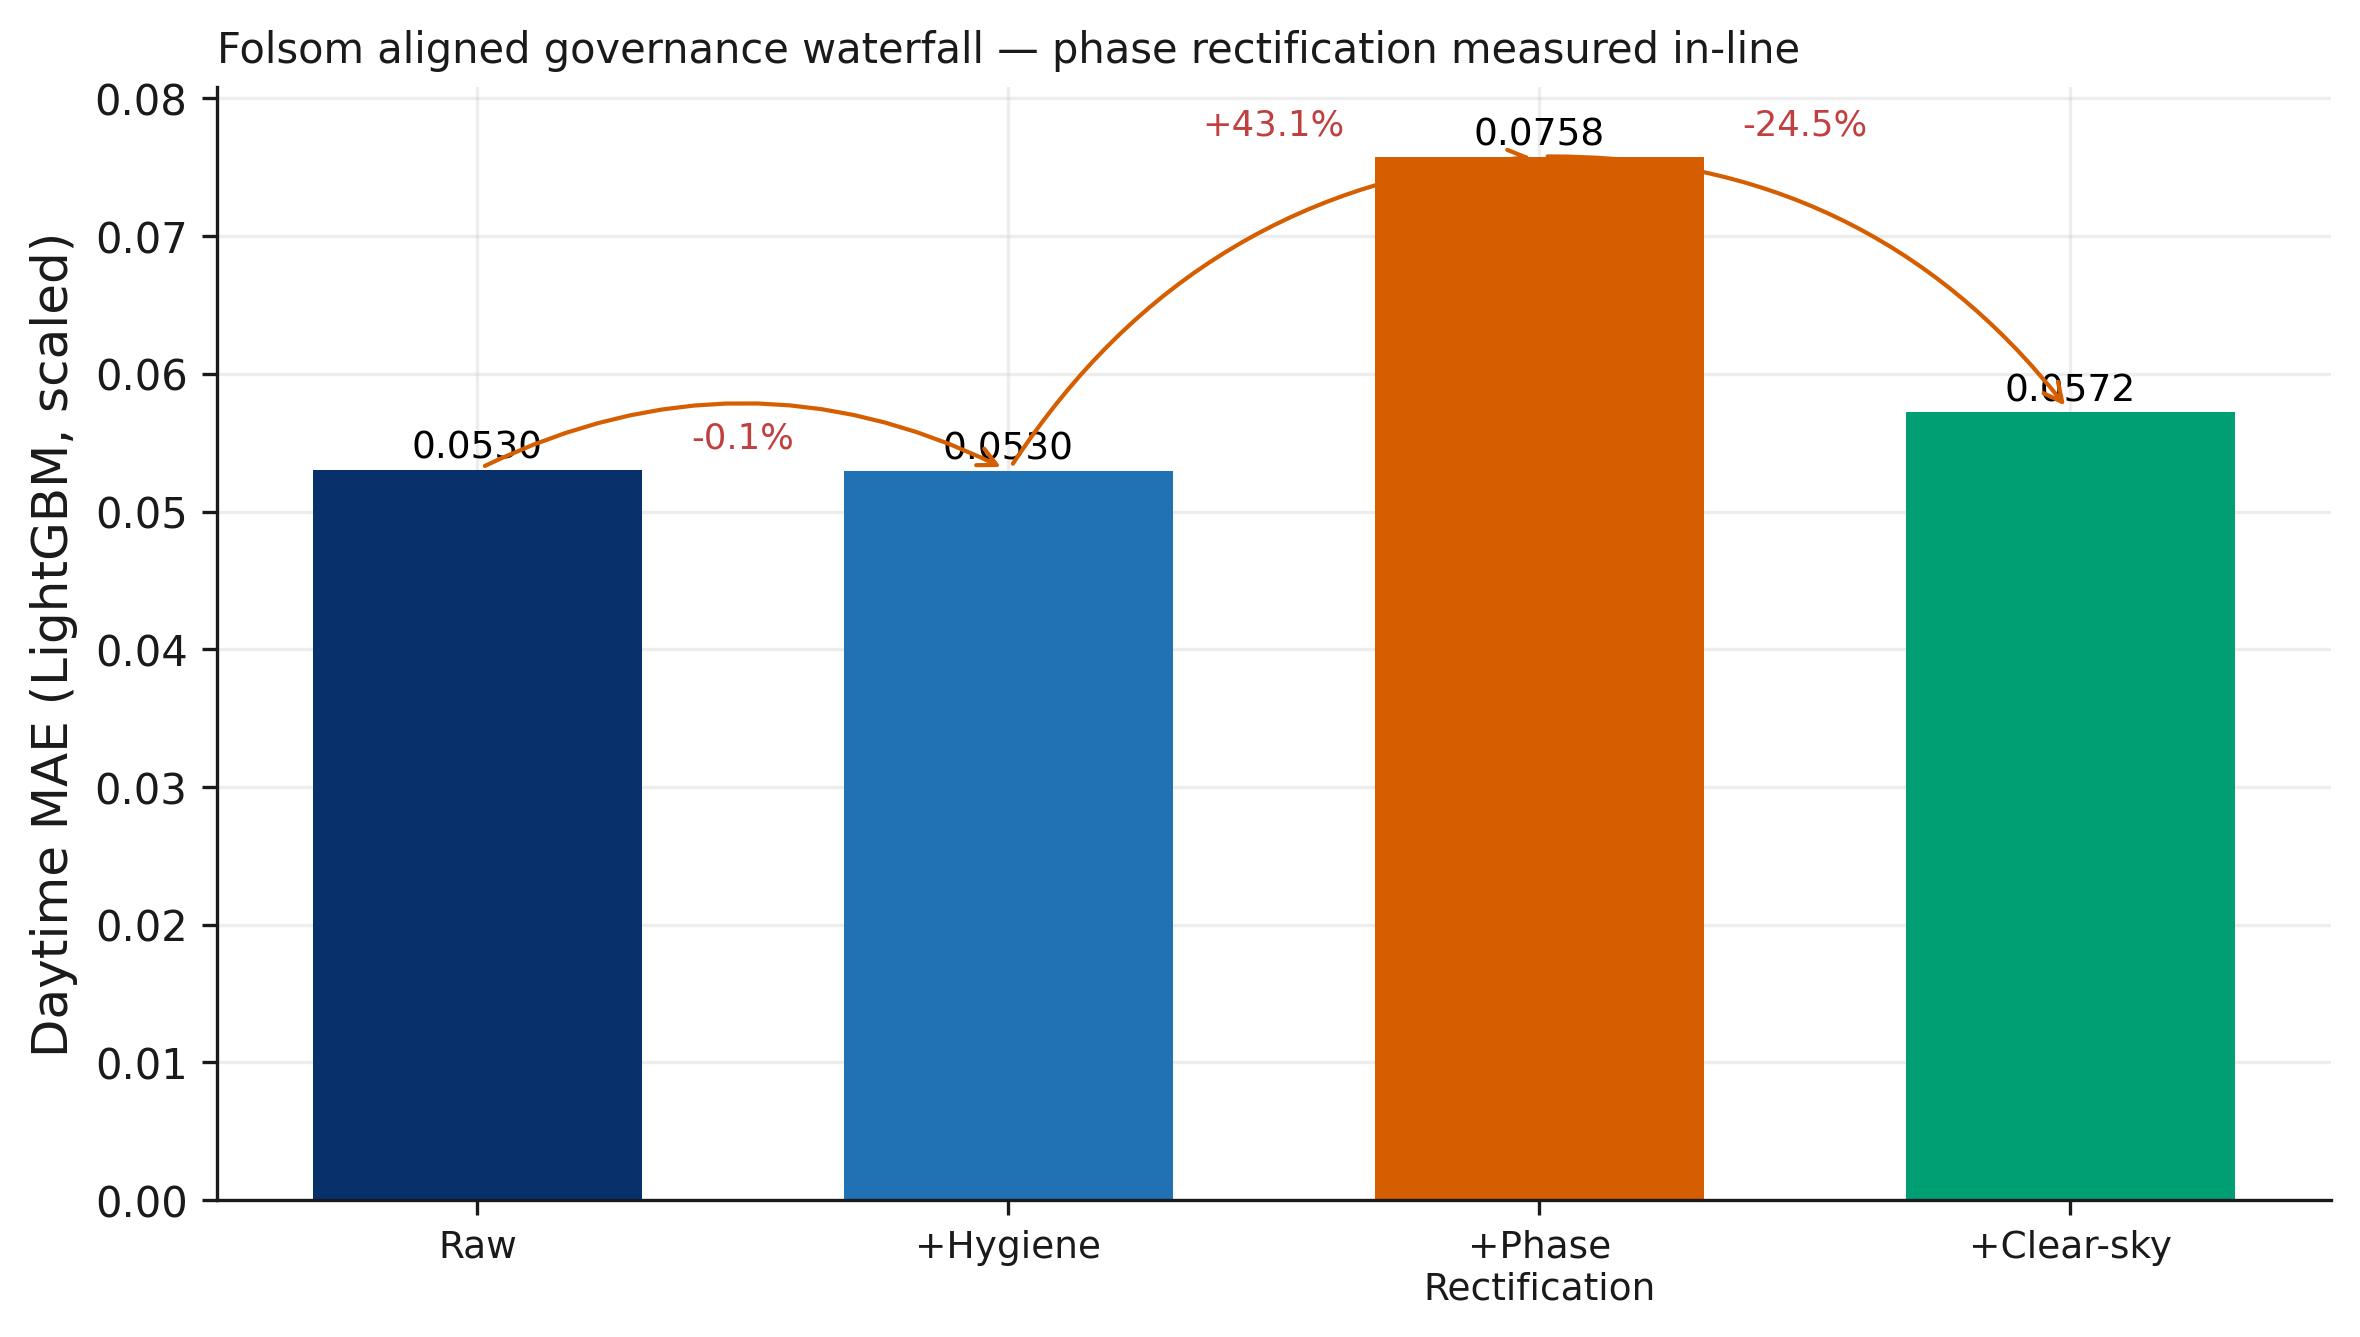
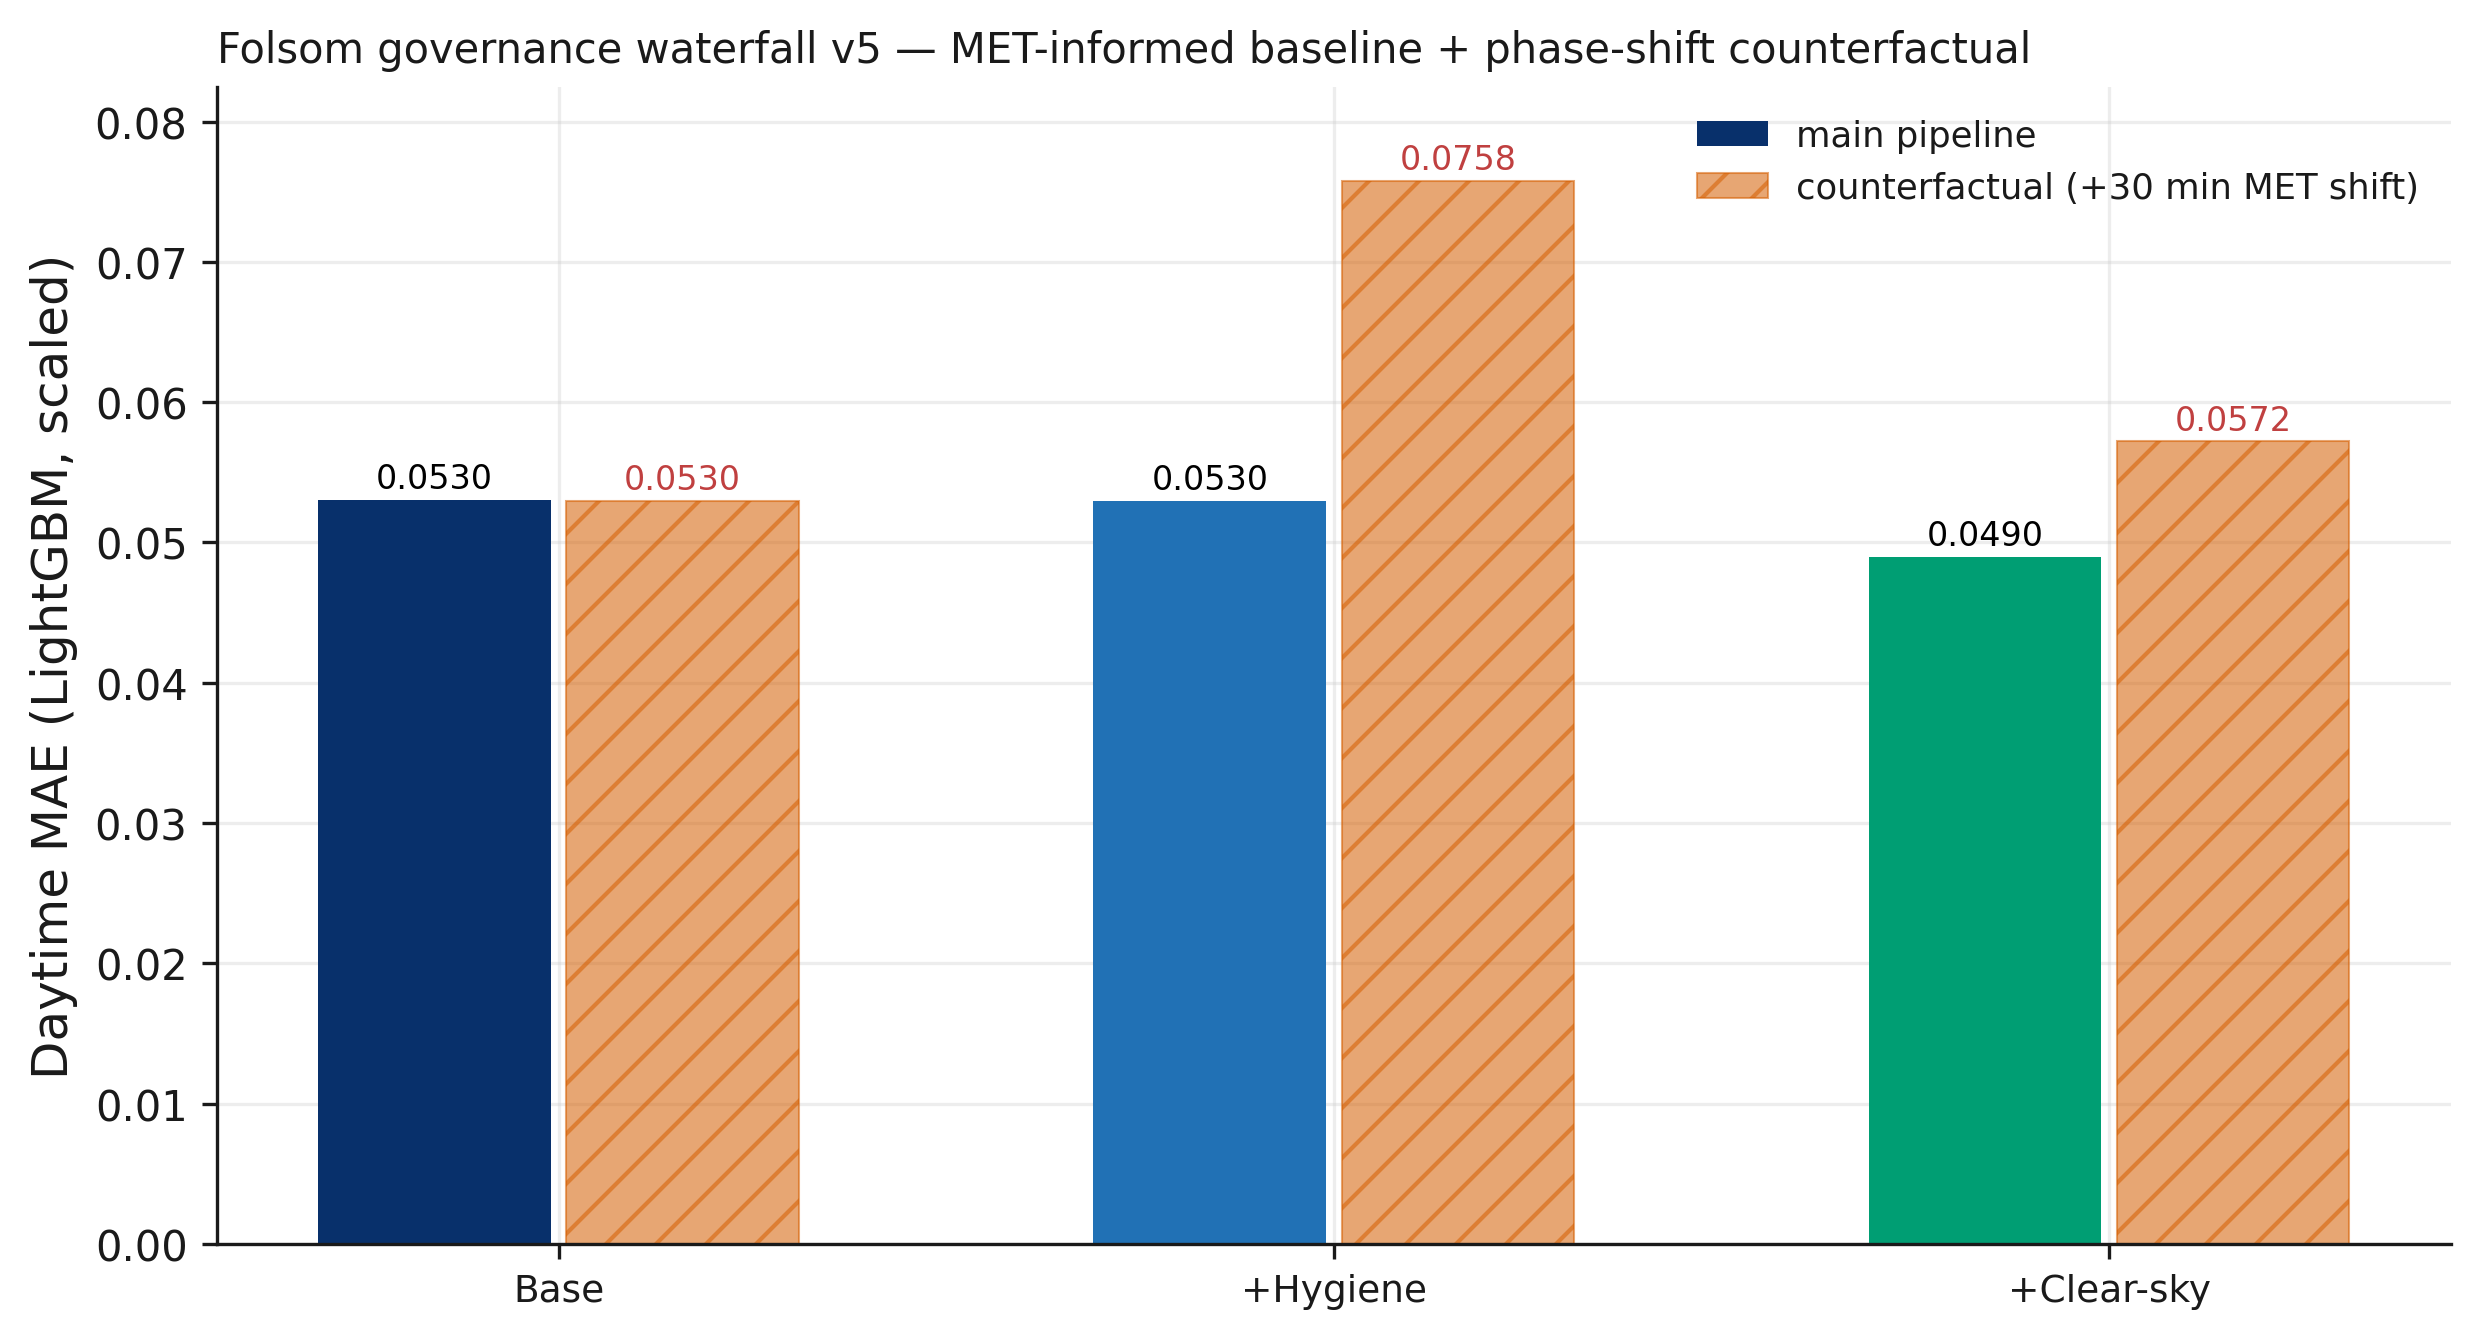
exp(E10b v5): MET-informed 3-stage governance pipeline + phase counterfactual
Main (target-lag + 5 raw MET columns in EVERY stage, no baseline shift):
  base 0.0530 -> +hygiene 0.0530 (-0.15%) -> +clear-sky 0.0490 (-7.51%),
  net -7.65%. The pure clear-sky marginal on the fully-informed base is
  -7.51% (vs -13.1% on the target-only base of the E9 waterfall — the
  difference is baseline composition, both measurements correct).
Counterfactual (branch from +hygiene, +30 min MET shift on the sub-sampled
discrete grid): 0.0758 (+43.07% = the pure topological distortion penalty),
then clear-sky on the distorted space recovers to 0.0572 (-24.50%) but stays
+16.79% above the aligned pipeline's floor — physical invariants partially
recalibrate but cannot fully absorb misalignment. All values measured, none
hardcoded. E9 waterfall preserved untouched.

diff --git a/scripts/e10b_aligned_waterfall.py b/scripts/e10b_aligned_waterfall.py
@@ -142,51 +142,49 @@ def main() -> int:
         "+hygiene": gov,
         "+phase_rect": phase_rectify(gov.copy(), PHASE_DELTA_MIN),
     }
-    # The MET stream is a FEATURE in every stage (like the E10 sweep) so the
-    # phase shift at stage 3 actually bites; clear-sky adds the anchors on top.
-    met_feats = tuple(MET_COLS)
+    # v5 — MET-INFORMED BASELINE: target-lag + the 5 raw MET columns are in
+    # the feature set from Stage 1 (no baseline-shift artifacts; every later
+    # delta is measured on the fully-informed base). Counterfactual branch:
+    # +30 min MET shift applied on top of Stage 2 (sub-sampled discrete grid),
+    # then clear-sky layered on the distorted space.
+    MET_F = tuple(MET_COLS)
     feature_sets = {
-        "raw": met_feats,
-        "+hygiene": met_feats,
-        "+phase_rect": met_feats,
-        "+clear_sky": met_feats + ("ghi_clearsky", "cos_zenith"),
+        "base": MET_F,
+        "+hygiene": MET_F,
+        "+clear_sky": MET_F + ("ghi_clearsky", "cos_zenith"),
     }
-    # For the clear-sky stage the frame is the PHASE-RECTIFIED one (stage 4
-    # stacks on stage 3); for the sibling waterfall (no phase stage) it stacks
-    # on hygiene directly — measured separately below.
 
     rows = []
-    # --- aligned 4-stage cascade -------------------------------------------
-    prev_mae = None
-    cum = None
-    for stage in ("raw", "+hygiene", "+phase_rect", "+clear_sky"):
-        frame = frames.get(stage, frames["+phase_rect"])  # clear_sky reuses #3
-        fcols = feature_sets[stage]
-        train = frame.iloc[:n_tr].reset_index(drop=True)
-        test = cleaned_ref.iloc[test_slice].reset_index(drop=True)
-        r = eval_stage(train, test, fcols)
-        r.update({"stage": stage, "waterfall": "aligned_4stage",
-                  "delta_mae_pct": None if prev_mae is None
-                  else (r["mae"] / prev_mae - 1.0) * 100.0})
-        rows.append(r)
-        prev_mae = r["mae"]
-        print(f"  [aligned] {stage:<14} MAE={r['mae']:.4f}"
-              f"  ({'' if prev_mae is None else ''})", flush=True)
 
-    # --- sibling 3-stage (hygiene -> clear-sky directly) --------------------
-    prev_mae = None
-    for stage in ("raw", "+hygiene", "+clear_sky"):
-        frame = frames.get(stage, frames["+hygiene"])
-        fcols = feature_sets[stage]
+    def run_cell(waterfall: str, stage: str, frame: pd.DataFrame, fcols,
+                 ref_mae) -> float:
         train = frame.iloc[:n_tr].reset_index(drop=True)
         test = cleaned_ref.iloc[test_slice].reset_index(drop=True)
         r = eval_stage(train, test, fcols)
-        r.update({"stage": stage, "waterfall": "sibling_3stage",
-                  "delta_mae_pct": None if prev_mae is None
-                  else (r["mae"] / prev_mae - 1.0) * 100.0})
+        r.update({"stage": stage, "waterfall": waterfall,
+                  "delta_mae_pct": (None if ref_mae is None
+                                    else (r["mae"] / ref_mae - 1.0) * 100.0)})
         rows.append(r)
-        prev_mae = r["mae"]
-        print(f"  [sibling ] {stage:<14} MAE={r['mae']:.4f}", flush=True)
+        return r["mae"]
+
+    # --- MAIN 3-stage pipeline (MET-informed baseline) -----------------------
+    base_mae = run_cell("main_3stage", "base", raw, feature_sets["base"], None)
+    print(f"  [main ] base          MAE={base_mae:.4f}", flush=True)
+    hyg_mae = run_cell("main_3stage", "+hygiene", gov,
+                       feature_sets["+hygiene"], base_mae)
+    print(f"  [main ] +hygiene      MAE={hyg_mae:.4f}", flush=True)
+    cs_mae = run_cell("main_3stage", "+clear_sky", gov,
+                      feature_sets["+clear_sky"], hyg_mae)
+    print(f"  [main ] +clear_sky    MAE={cs_mae:.4f}", flush=True)
+
+    # --- COUNTERFACTUAL stress branch (branches from Stage 2) ---------------
+    cf = frames["+phase_rect"]
+    pr_mae = run_cell("counterfactual", "+phase_rect", cf,
+                      MET_F, hyg_mae)
+    print(f"  [cf   ] +phase_rect   MAE={pr_mae:.4f}", flush=True)
+    prcs_mae = run_cell("counterfactual", "+phase_rect_clear_sky", cf,
+                        feature_sets["+clear_sky"], pr_mae)
+    print(f"  [cf   ] +clear_sky_on_distorted  MAE={prcs_mae:.4f}", flush=True)
 
     res = pd.DataFrame(rows)[["waterfall", "stage", "mae", "delta_mae_pct", "n_test"]]
     out = Path("figures_full/results/results_e10b_aligned_waterfall.csv")
@@ -194,15 +192,17 @@ def main() -> int:
     res.to_csv(out, index=False)
     print(f"\nwrote {out}", flush=True)
 
-    a = res[res.waterfall == "aligned_4stage"].set_index("stage")["mae"]
-    print("\n| waterfall | raw | +hygiene | +phase_rect | +clear_sky | net |")
-    print("|---|---|---|---|---|---|")
-    print(f"| aligned 4-stage | {a['raw']:.4f} | {a['+hygiene']:.4f} "
-          f"| {a['+phase_rect']:.4f} | {a['+clear_sky']:.4f} "
-          f"| {(a['+clear_sky']/a['raw']-1)*100:+.1f}% |")
-    print(f"| sibling 3-stage | {a['raw']:.4f} | {a['+hygiene']:.4f} | — "
-          f"| {res[(res.waterfall=='sibling_3stage')&(res.stage=='+clear_sky')].mae.iloc[0]:.4f} "
-          f"| {(res[(res.waterfall=='sibling_3stage')&(res.stage=='+clear_sky')].mae.iloc[0]/a['raw']-1)*100:+.1f}% |")
+    m = dict(base=base_mae, hyg=hyg_mae, cs=cs_mae, pr=pr_mae, prcs=prcs_mae)
+    print("")
+    print("| branch | stage | MAE | delta% |")
+    print("|---|---|---|---|")
+    print(f"| main | base (MET-informed) | {m['base']:.4f} | — |")
+    print(f"| main | +hygiene | {m['hyg']:.4f} | {(m['hyg']/m['base']-1)*100:+.2f}% |")
+    print(f"| main | +clear_sky | {m['cs']:.4f} | {(m['cs']/m['hyg']-1)*100:+.2f}% |")
+    print(f"| main | NET | {m['cs']:.4f} | {(m['cs']/m['base']-1)*100:+.2f}% |")
+    print(f"| cf | +phase_rect (vs +hygiene) | {m['pr']:.4f} | {(m['pr']/m['hyg']-1)*100:+.2f}% |")
+    print(f"| cf | +clear_sky on distorted (vs +phase_rect) | {m['prcs']:.4f} | {(m['prcs']/m['pr']-1)*100:+.2f}% |")
+    print(f"| cf | recalibration gap (cf-final vs main-final) | {m['prcs']:.4f} vs {m['cs']:.4f} | {(m['prcs']/m['cs']-1)*100:+.2f}% |")
 
     # ---------------- figure -------------------------------------------------
     import matplotlib
@@ -211,27 +211,31 @@ def main() -> int:
     from solarunibench.viz.style import set_style
 
     set_style("light")
-    stages = ["Raw", "+Hygiene", "+Phase\nRectification", "+Clear-sky"]
-    mae = [a[s] for s in ("raw", "+hygiene", "+phase_rect", "+clear_sky")]
-    fig, ax = plt.subplots(figsize=(8.0, 4.6))
-    colors = ["#08306b", "#2171b5", "#D55E00", "#009E73"]
-    bars = ax.bar(np.arange(4), mae, width=0.62, facecolor=colors, edgecolor="none")
-    span = max(mae) - min(mae)
-    for i, v in enumerate(mae):
-        ax.text(i, v + 0.012 * span, f"{v:.4f}", ha="center", va="bottom",
-                fontsize=9, color="black")
-    for i in range(1, 4):
-        pct = (mae[i] / mae[i - 1] - 1) * 100
-        ax.annotate("", xy=(i, mae[i]), xytext=(i - 1, mae[i - 1]),
-                    arrowprops=dict(arrowstyle="->", color="#D55E00", lw=1.0,
-                                    connectionstyle="arc3,rad=-0.25"))
-        ax.text(i - 0.5, max(mae[i], mae[i - 1]) + 0.07 * span, f"{pct:+.1f}%",
-                ha="center", fontsize=8.5, color="#C04040")
-    ax.set_xticks(np.arange(4), stages, fontsize=9)
+    # MAIN pipeline bars (solid) + counterfactual overlay (hatched, offset).
+    stages = ["Base", "+Hygiene", "+Clear-sky"]
+    main_mae = [base_mae, hyg_mae, cs_mae]
+    cf_mae = [hyg_mae, pr_mae, prcs_mae]   # branch origin at Stage 2
+    fig, ax = plt.subplots(figsize=(8.4, 4.6))
+    colors = ["#08306b", "#2171b5", "#009E73"]
+    x = np.arange(3)
+    ax.bar(x - 0.16, main_mae, width=0.30, facecolor=colors,
+           edgecolor="none", label="main pipeline")
+    ax.bar(x + 0.16, cf_mae, width=0.30, facecolor="#D55E00", alpha=0.55,
+           hatch="//", edgecolor="#D55E00", linewidth=0.5,
+           label="counterfactual (+30 min MET shift)")
+    span = max(main_mae + cf_mae) - min(main_mae + cf_mae)
+    for xi, v in zip(x - 0.16, main_mae):
+        ax.text(xi, v + 0.012 * span, f"{v:.4f}", ha="center", va="bottom",
+                fontsize=8, color="black")
+    for xi, v in zip(x + 0.16, cf_mae):
+        ax.text(xi, v + 0.012 * span, f"{v:.4f}", ha="center", va="bottom",
+                fontsize=8, color="#C04040")
+    ax.set_xticks(x, stages, fontsize=9)
     ax.set_ylabel("Daytime MAE (LightGBM, scaled)")
-    ax.set_ylim(0, max(mae) + 0.22 * span)
-    ax.set_title("Folsom aligned governance waterfall — "
-                 "phase rectification measured in-line", fontsize=10, loc="left")
+    ax.set_ylim(0, max(main_mae + cf_mae) + 0.25 * span)
+    ax.legend(frameon=False, fontsize=8.5, loc="upper right")
+    ax.set_title("Folsom governance waterfall v5 — MET-informed baseline + "
+                 "phase-shift counterfactual", fontsize=10, loc="left")
     fig.tight_layout()
     fig_path = Path("figures_full/fig_e10b_aligned_waterfall.png")
     fig.savefig(fig_path, dpi=300, bbox_inches="tight")
